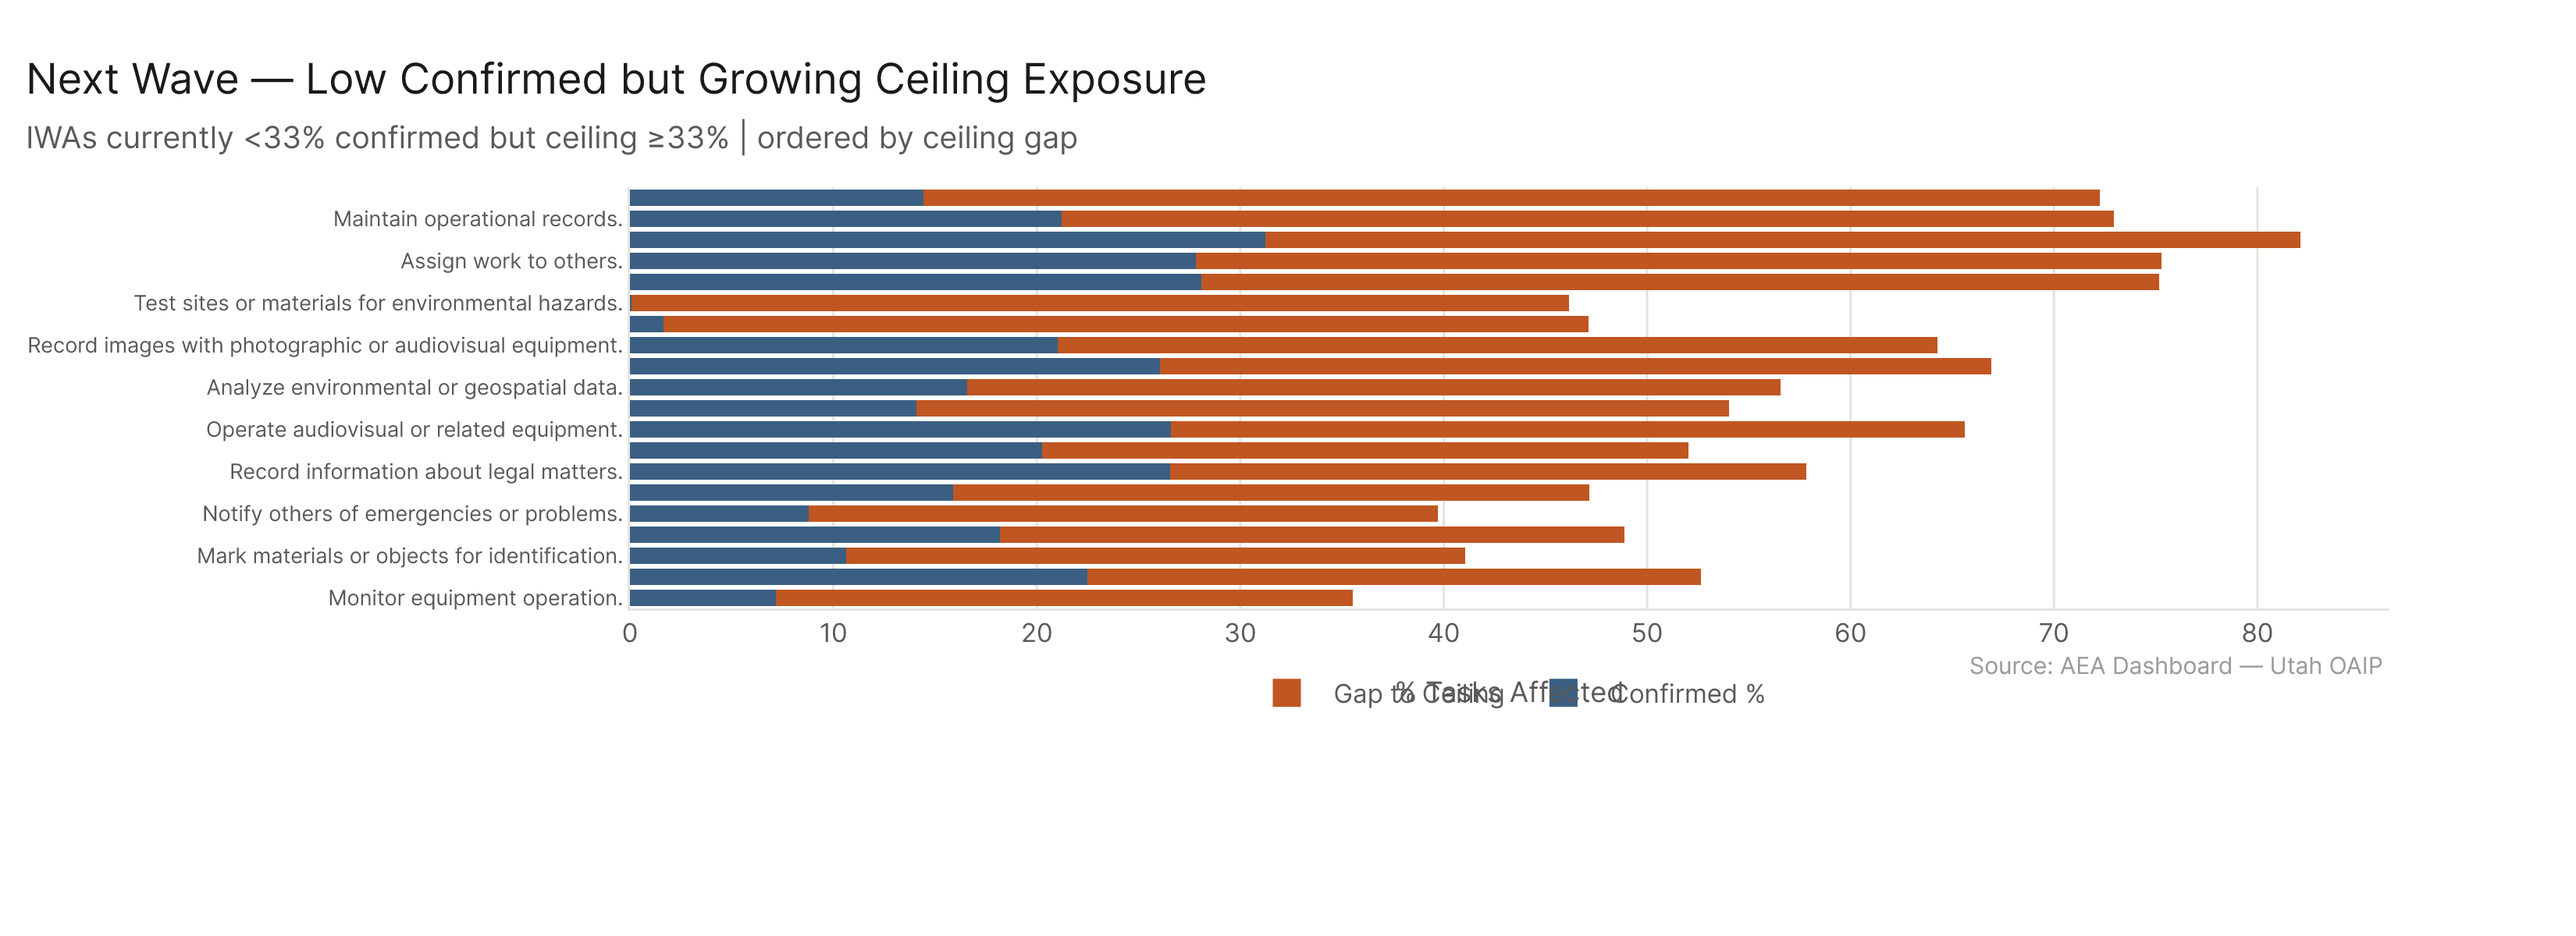
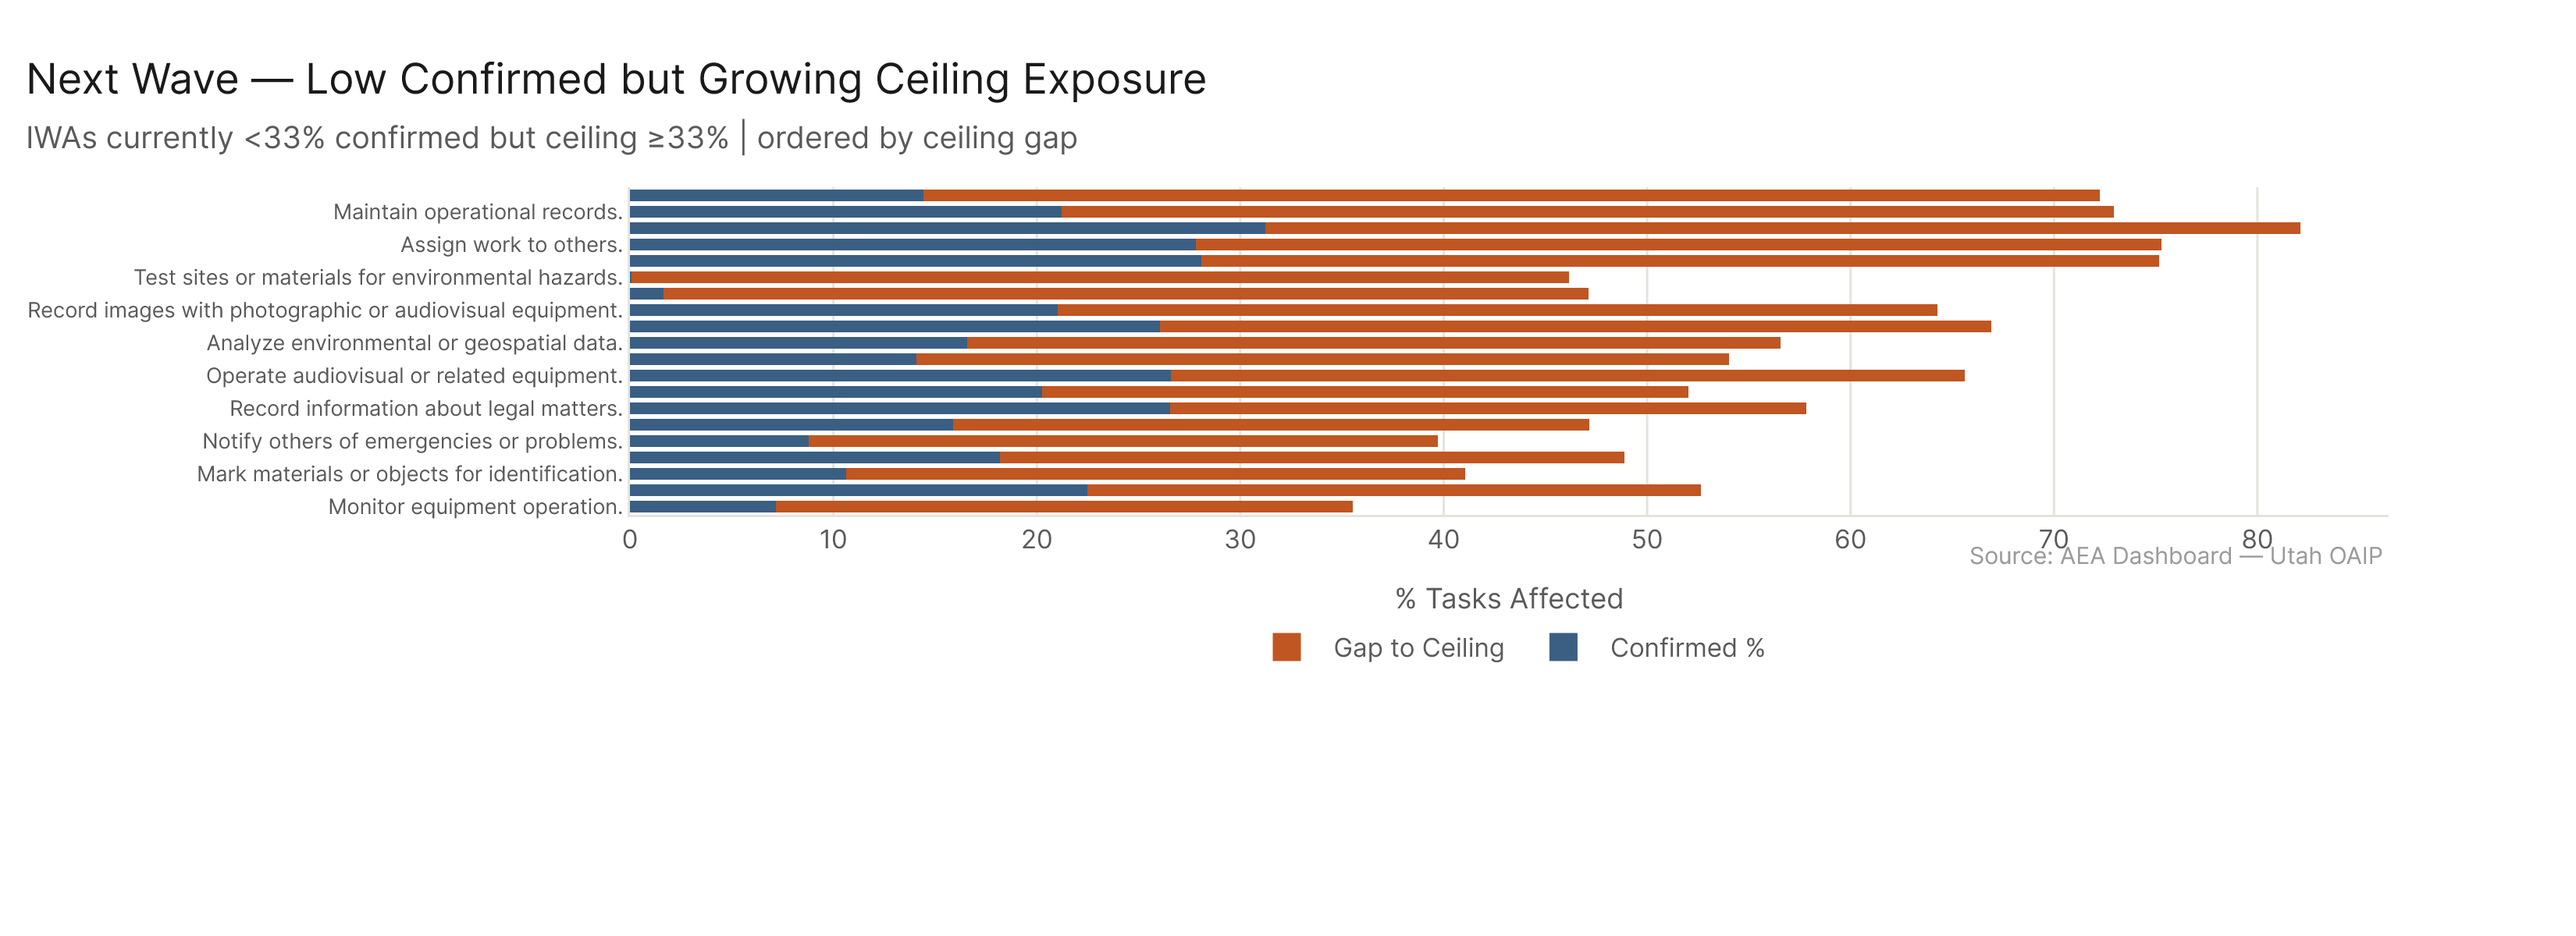
Fix next_wave chart: push legend further below x-axis title
y=-0.12 with b=140 only cleared ~22px below the plot area — not enough
to clear x-axis ticks + title. Changed to y=-0.30 and b=180 so the
legend clears the x-axis label in the 400px-tall figure.

diff --git a/analysis/questions/work_activity_exposure/activity_robustness/run.py b/analysis/questions/work_activity_exposure/activity_robustness/run.py
@@ -297,13 +297,13 @@ def _make_next_wave_chart(next_wave: pd.DataFrame) -> go.Figure:
     )
     fig.update_layout(
         barmode="stack",
-        margin=dict(l=20, r=80, t=80, b=140),
+        margin=dict(l=20, r=80, t=80, b=180),
         yaxis=dict(showgrid=False, tickfont=dict(size=9)),
         bargap=0.25,
         legend=dict(
             orientation="h",
             yanchor="top",
-            y=-0.12,
+            y=-0.30,
             xanchor="center",
             x=0.5,
         ),
